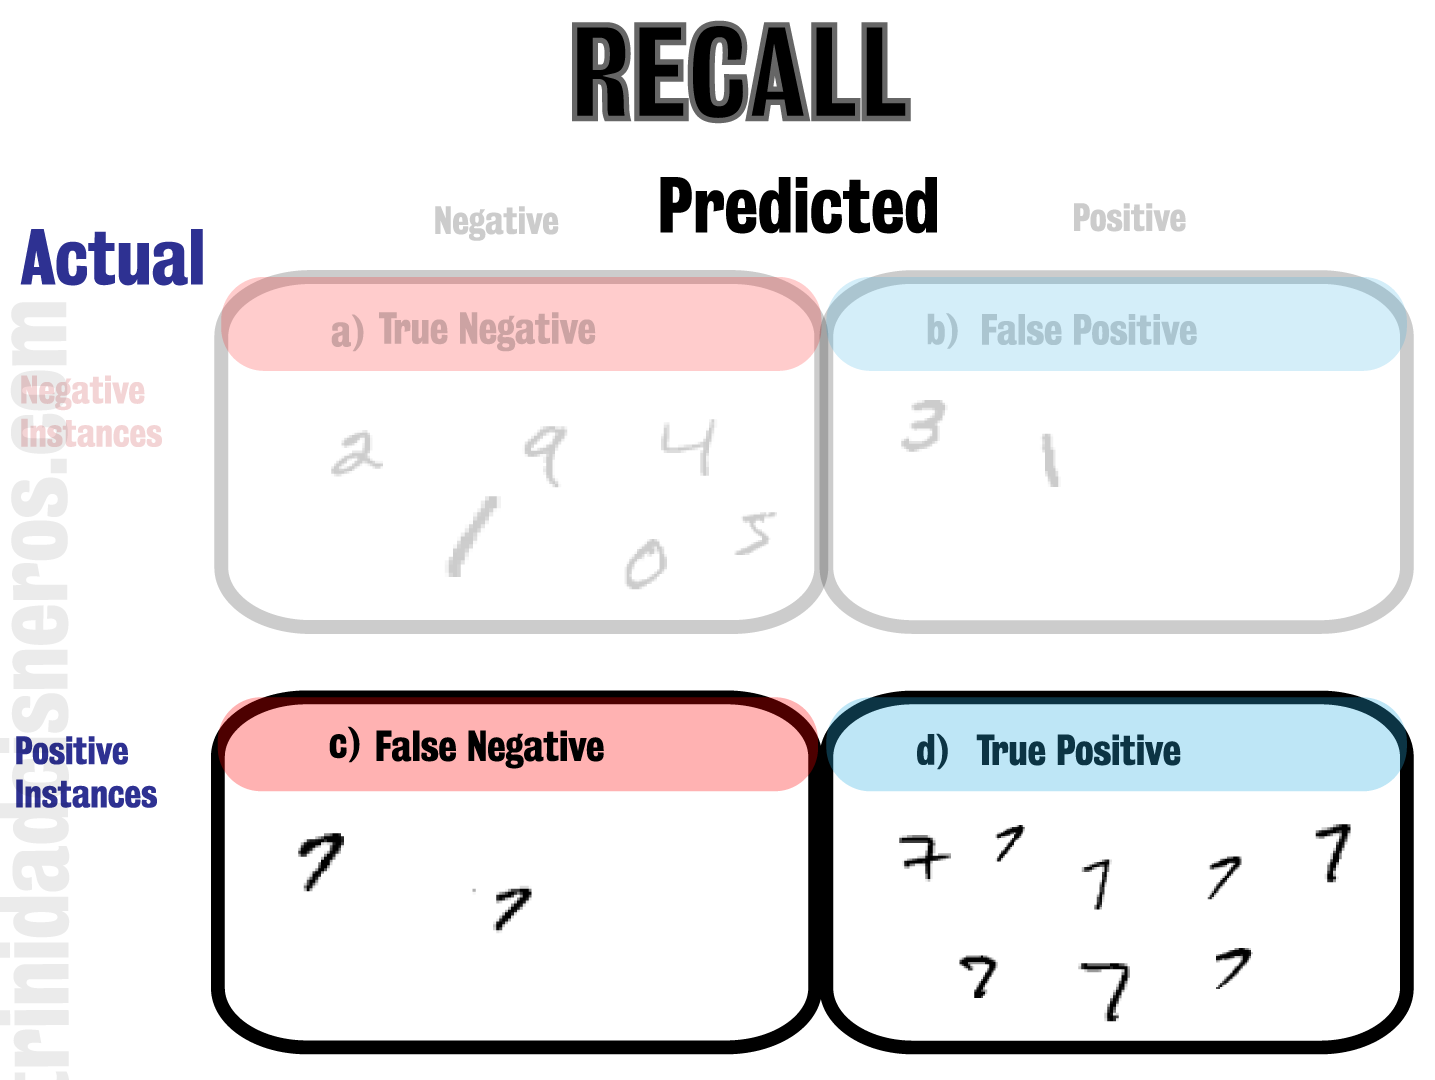
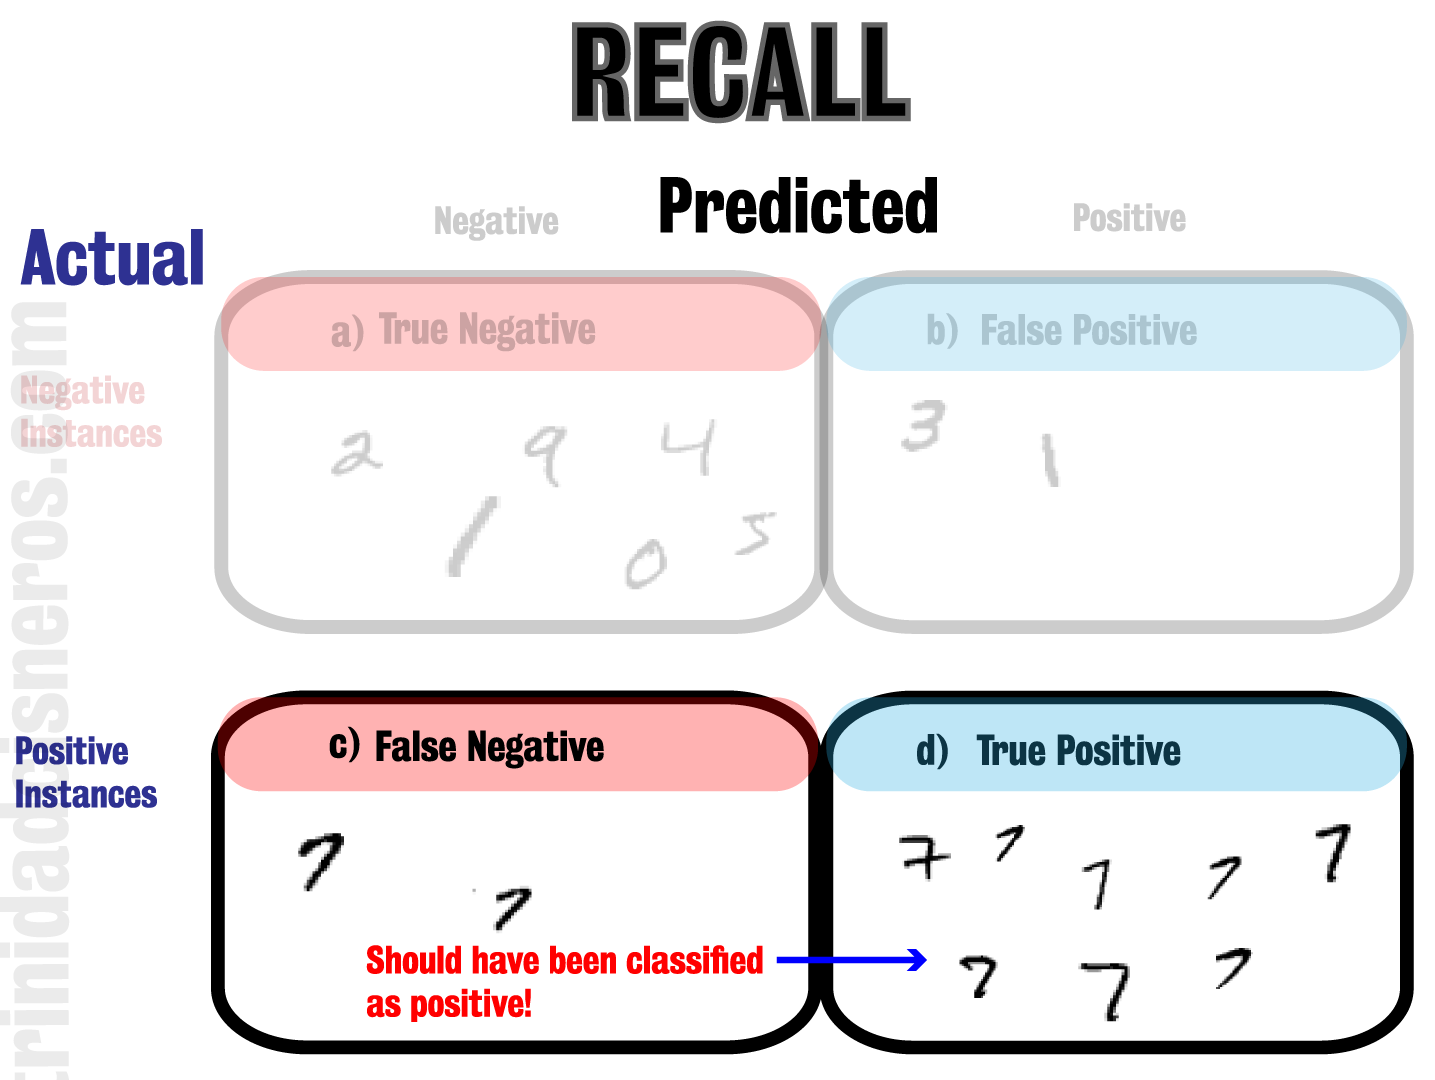
updated cm post

Changed region(s): [[0.2453, 0.8556, 0.6439, 0.9472]]

diff --git a/folders/ds_blogs/ds_confusion_matrix.html b/folders/ds_blogs/ds_confusion_matrix.html
@@ -301,15 +301,18 @@
                       class="figure"></img></a>
                   Precision is a concise metric that is used to evaluate how well the model was at
                   <strong>classifying</strong> real positive value in the dataset. <br>
-                  In this example, it indicates how many of the "Positives" were actually 7.<br>
-                  Are the true positives greater than the false positives?<br>
-                  Looking at the formula for precision, we see that as the false positives go down and approach 0, the
+                  -In this example, it indicates how many of the "Positives" were actually 7.<br>
+                  -Ask yourself, are the true positives greater than the false positives?<br>
+                  -Looking at the formula for precision, we see that as the number of false positives classified goes down, and approach 0, the
                   precision approaches 1 (which is perfection).<br>
-                  The precision score in this example was 83%. This tells us that out of 10 instances that the algorithm
-                  classified as 7, two of them were not 7, and were false positives.
+                  The precision score in this example was 83%. This tells us that:<br>
+                  - out of 10 predictions:<br>
+                  ---- 8 predictions were correctly classified as 7<br>
+                  ---- 2 predictions were misclassified as 7, but were actually some other number<br>
+                  The image below summarizes this text.
                 </p>
                 <a href="projects/MNIST/static/images/precision_explained.png">
-                  <img src="projects/MNIST/static/images/precision_explained.png" width="75%" height=100% class="figure"></img></a>
+                  <img src="projects/MNIST/static/images/precision_explained.png" width="60%" height=100% class="figure"></img></a>
               </div>
               <hr>
 
@@ -327,9 +330,10 @@
                   -- out of 10 predictions:<br>
                   ---- 8 predictions were correctly classified as 7<br>
                   ---- 2 predictions were misclassified as NOT a 7, and some other number<br>
+                  The image below summarizes this text.
                 </p>
                 <a href="projects/MNIST/static/images/recall_explained.png">
-                  <img src="projects/MNIST/static/images/recall_explained.png" width="75%" height=100% class="figure"></img></a>
+                  <img src="projects/MNIST/static/images/recall_explained.png" width="60%" height=100% class="figure"></img></a>
               </div>
               <hr>
               <hr>
